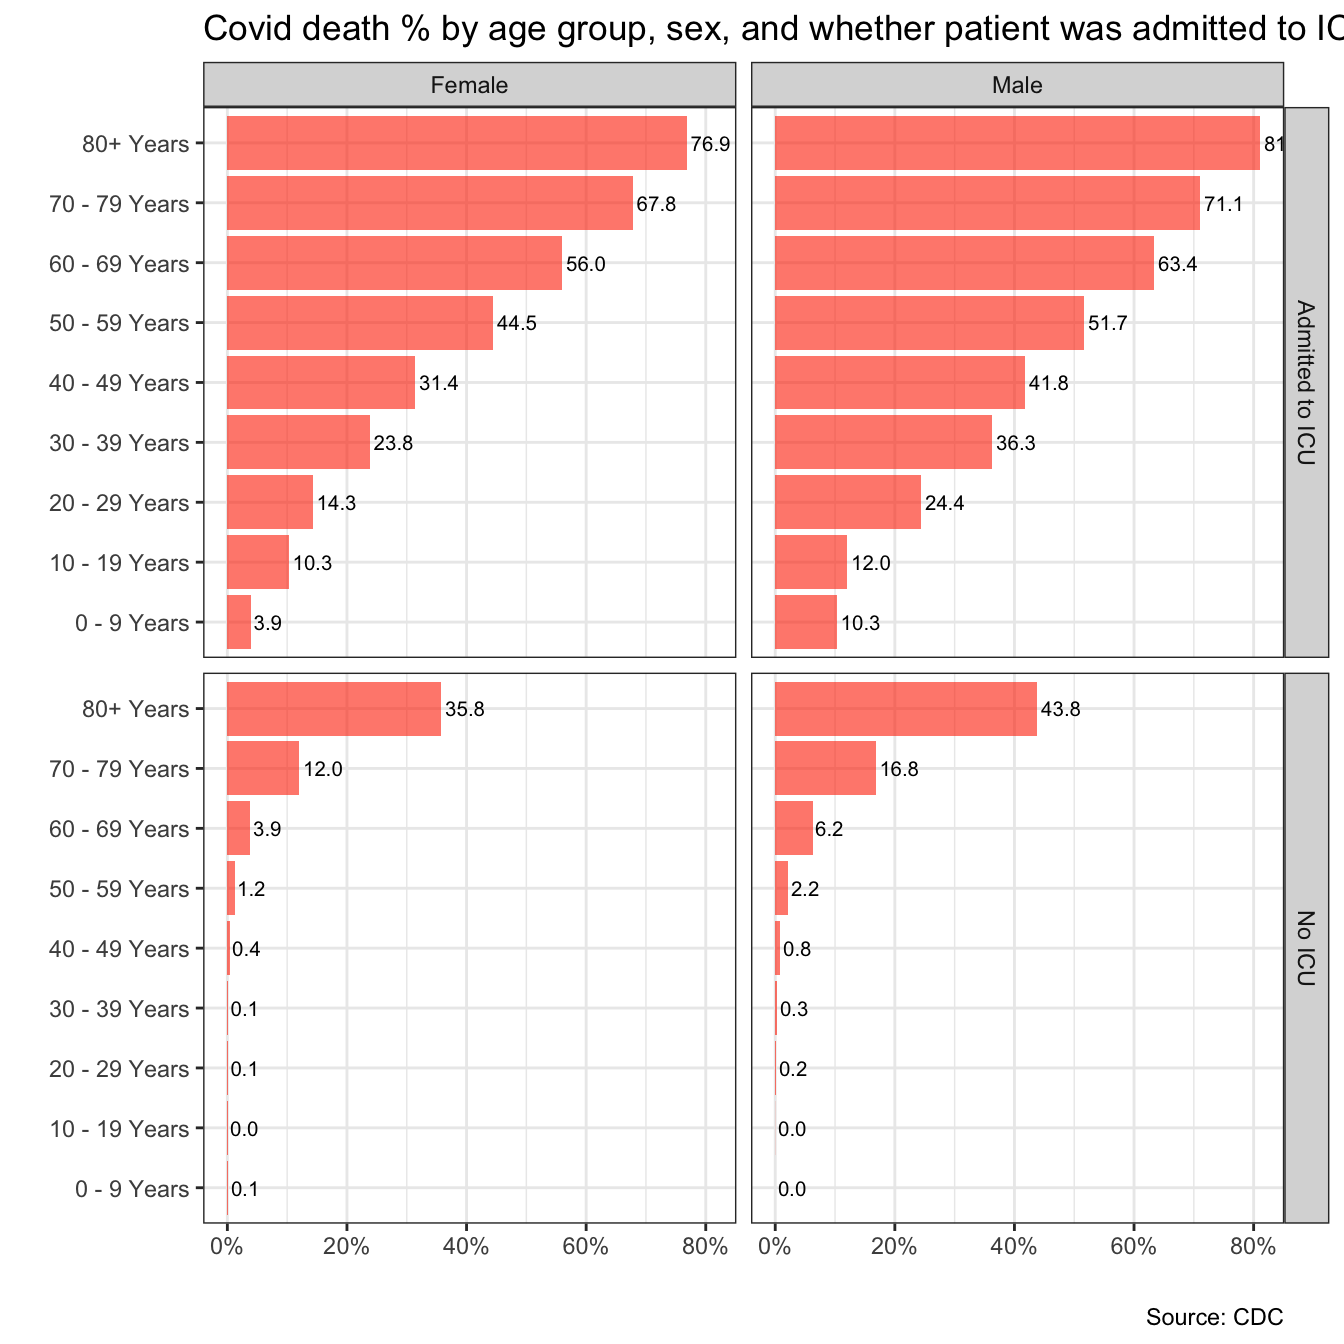
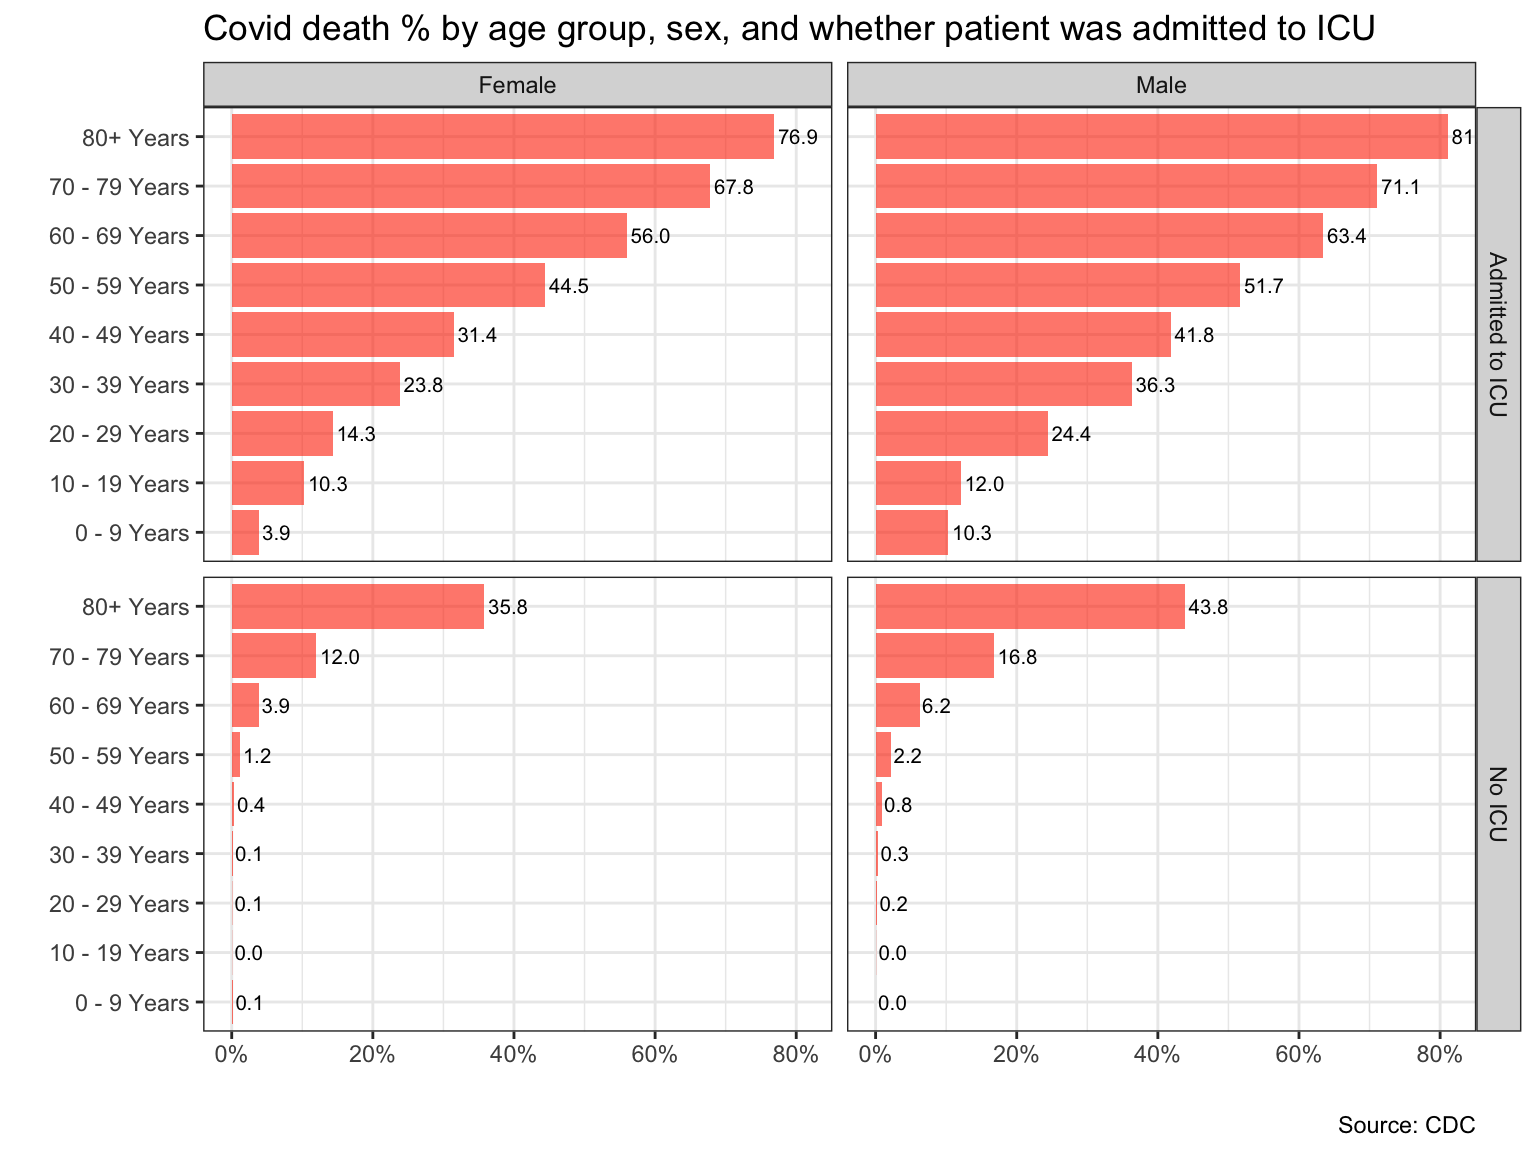
added covid

diff --git a/content/blogs/covid.html b/content/blogs/covid.html
@@ -26,7 +26,7 @@ categories:
 # URL link to CDC to download data
 url &lt;- &quot;https://data.cdc.gov/api/views/vbim-akqf/rows.csv?accessType=DOWNLOAD&quot;
 
-covid_data &lt;- vroom::vroom(url)%&gt;% # If vroom::vroom(url) doesn&#39;t work, use read_csv(url)
+covid_data &lt;- vroom::vroom(url) %&gt;% # If vroom::vroom(url) doesn&#39;t work, use read_csv(url)
   clean_names()</code></pre>
 <p>Given the data we have, I we would produce two graphs that show death % rate:</p>
 <ul>
@@ -96,5 +96,5 @@ ggplot(covid_grouped_icu, aes(x = age_group, y = death_rate)) +
              caption = &quot;Source: CDC&quot;,
              x = &quot;&quot;, 
              y = &quot;&quot;)</code></pre>
-<p><img src="/blogs/covid_files/figure-html/graph2-1.png" width="672" style="display: block; margin: auto;" /></p>
+<p><img src="/blogs/covid_files/figure-html/graph2-1.png" width="100%" style="display: block; margin: auto;" /></p>
 <p>People that were admitted to ICU have much higher probability of death in each age group compared to those who were not admitted to ICU. Furthermore, with the increase in age probability of death from covid increases in both ICU groups.</p>
